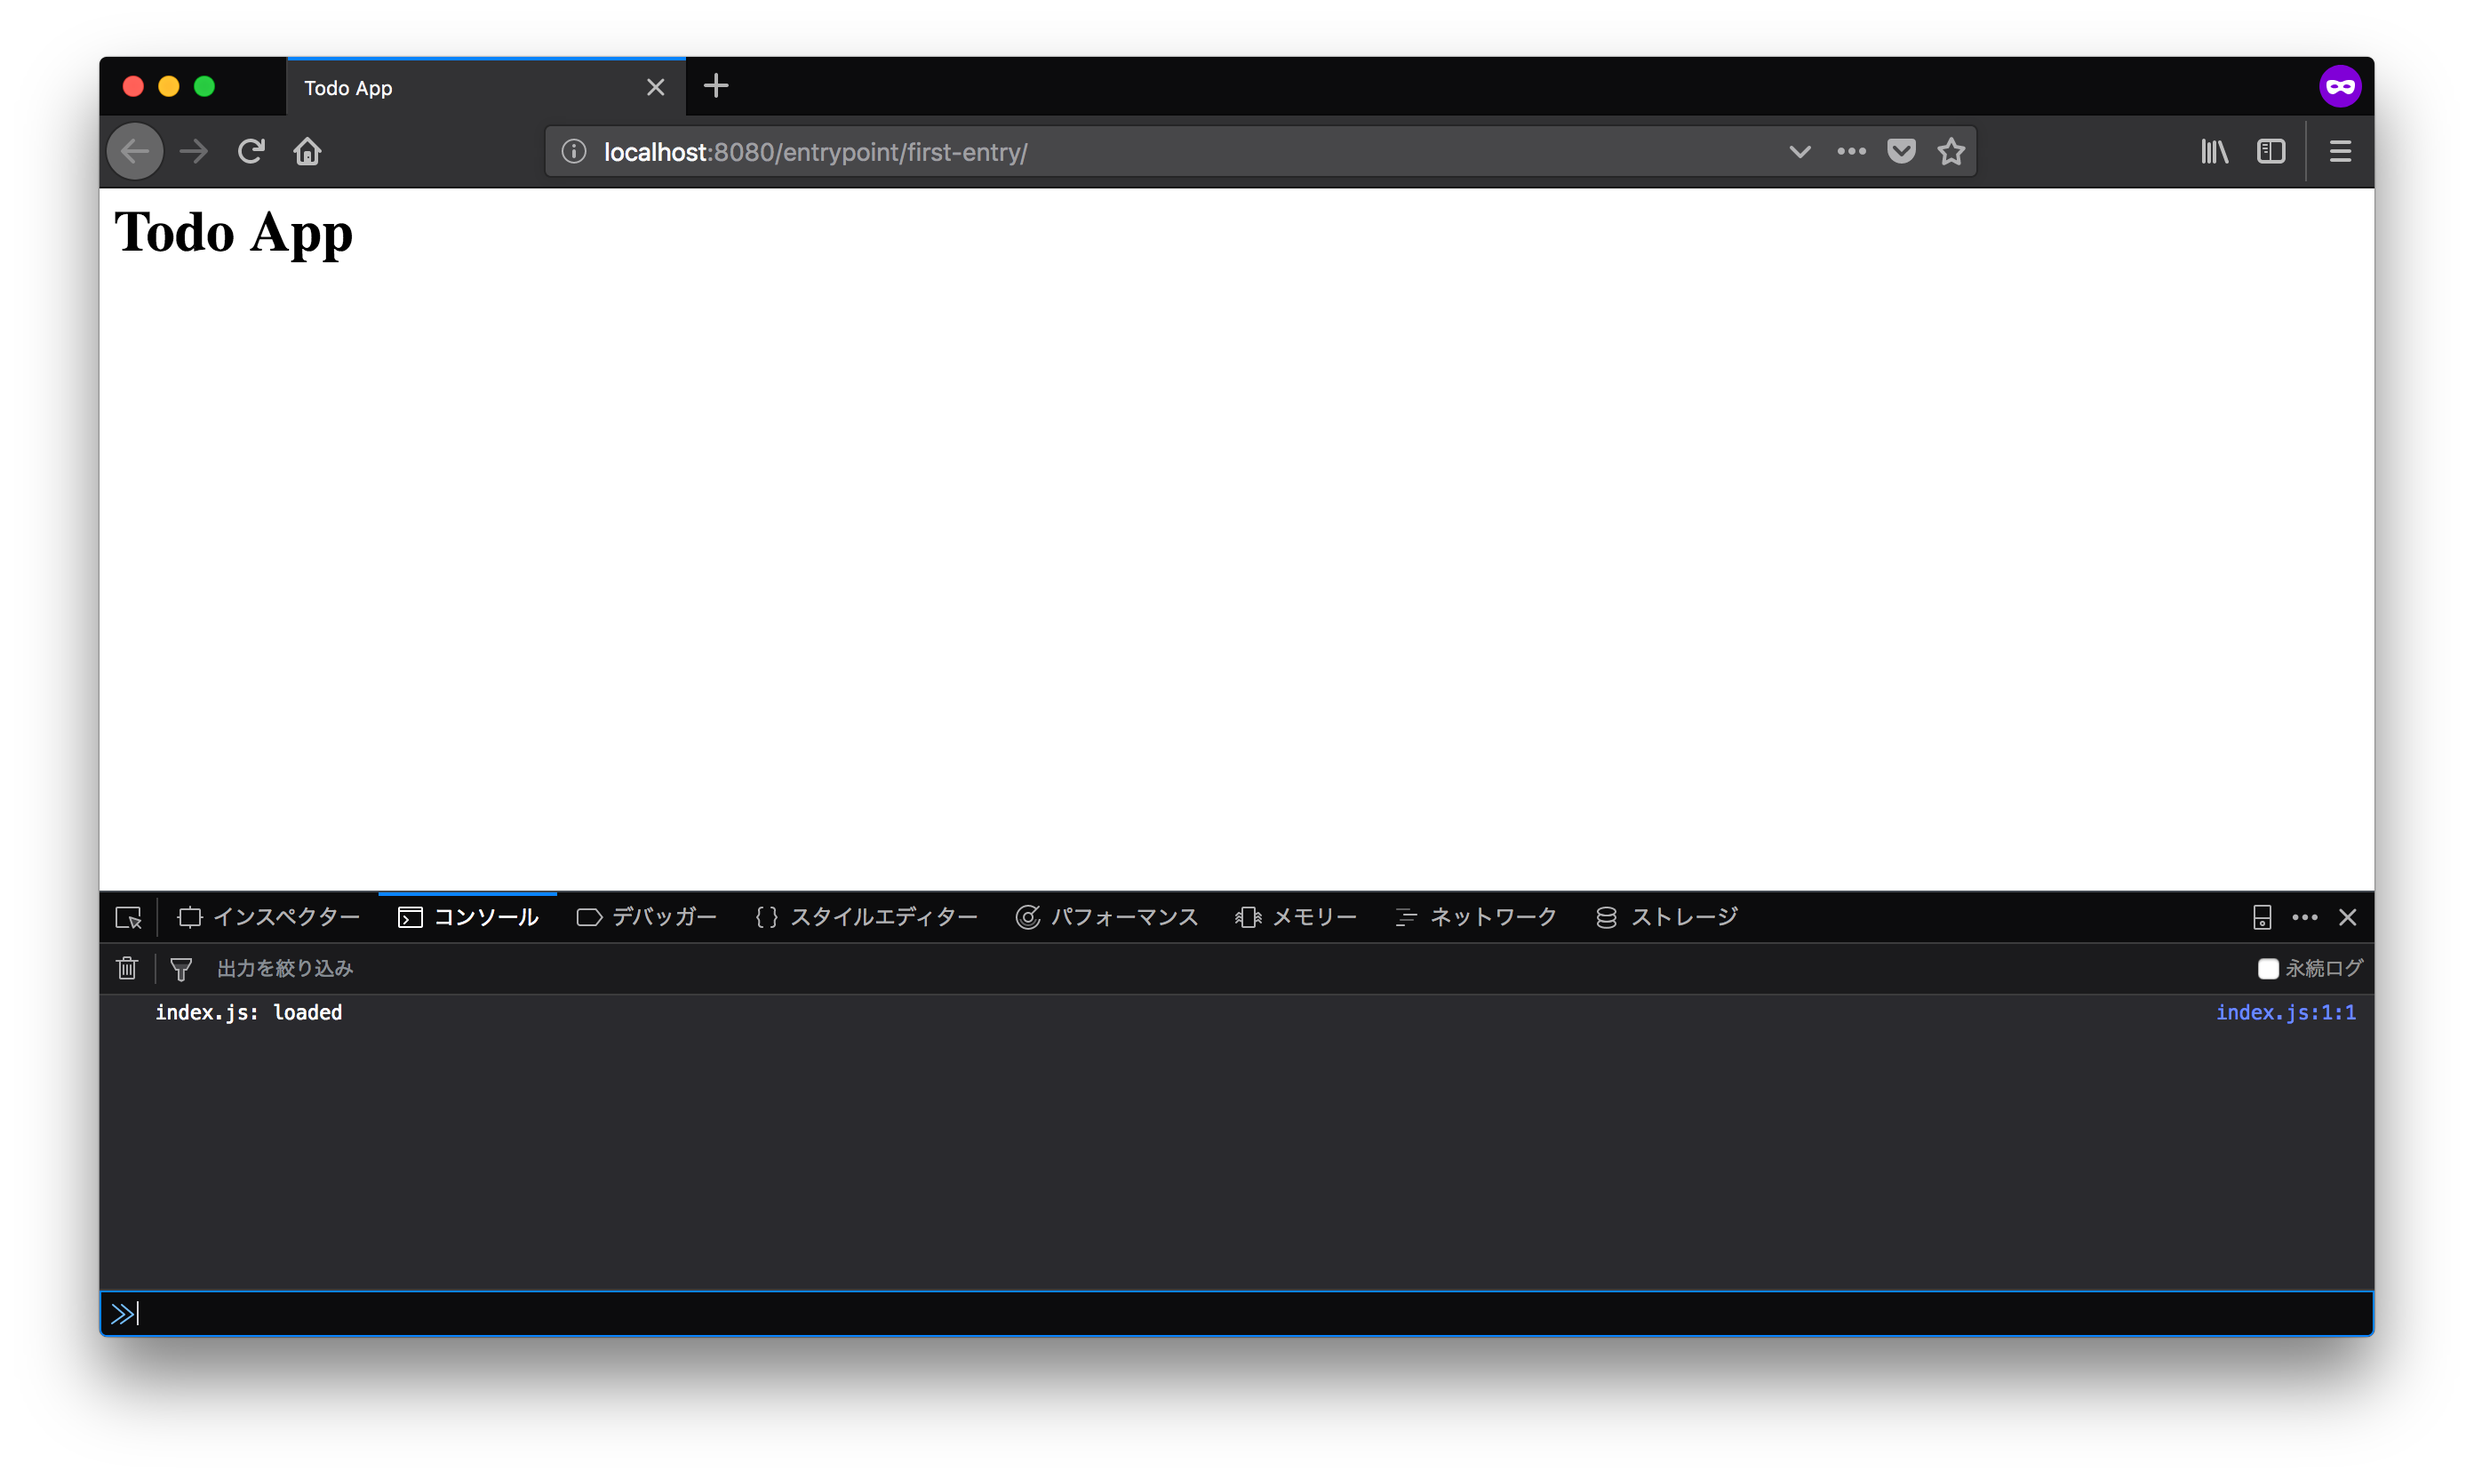
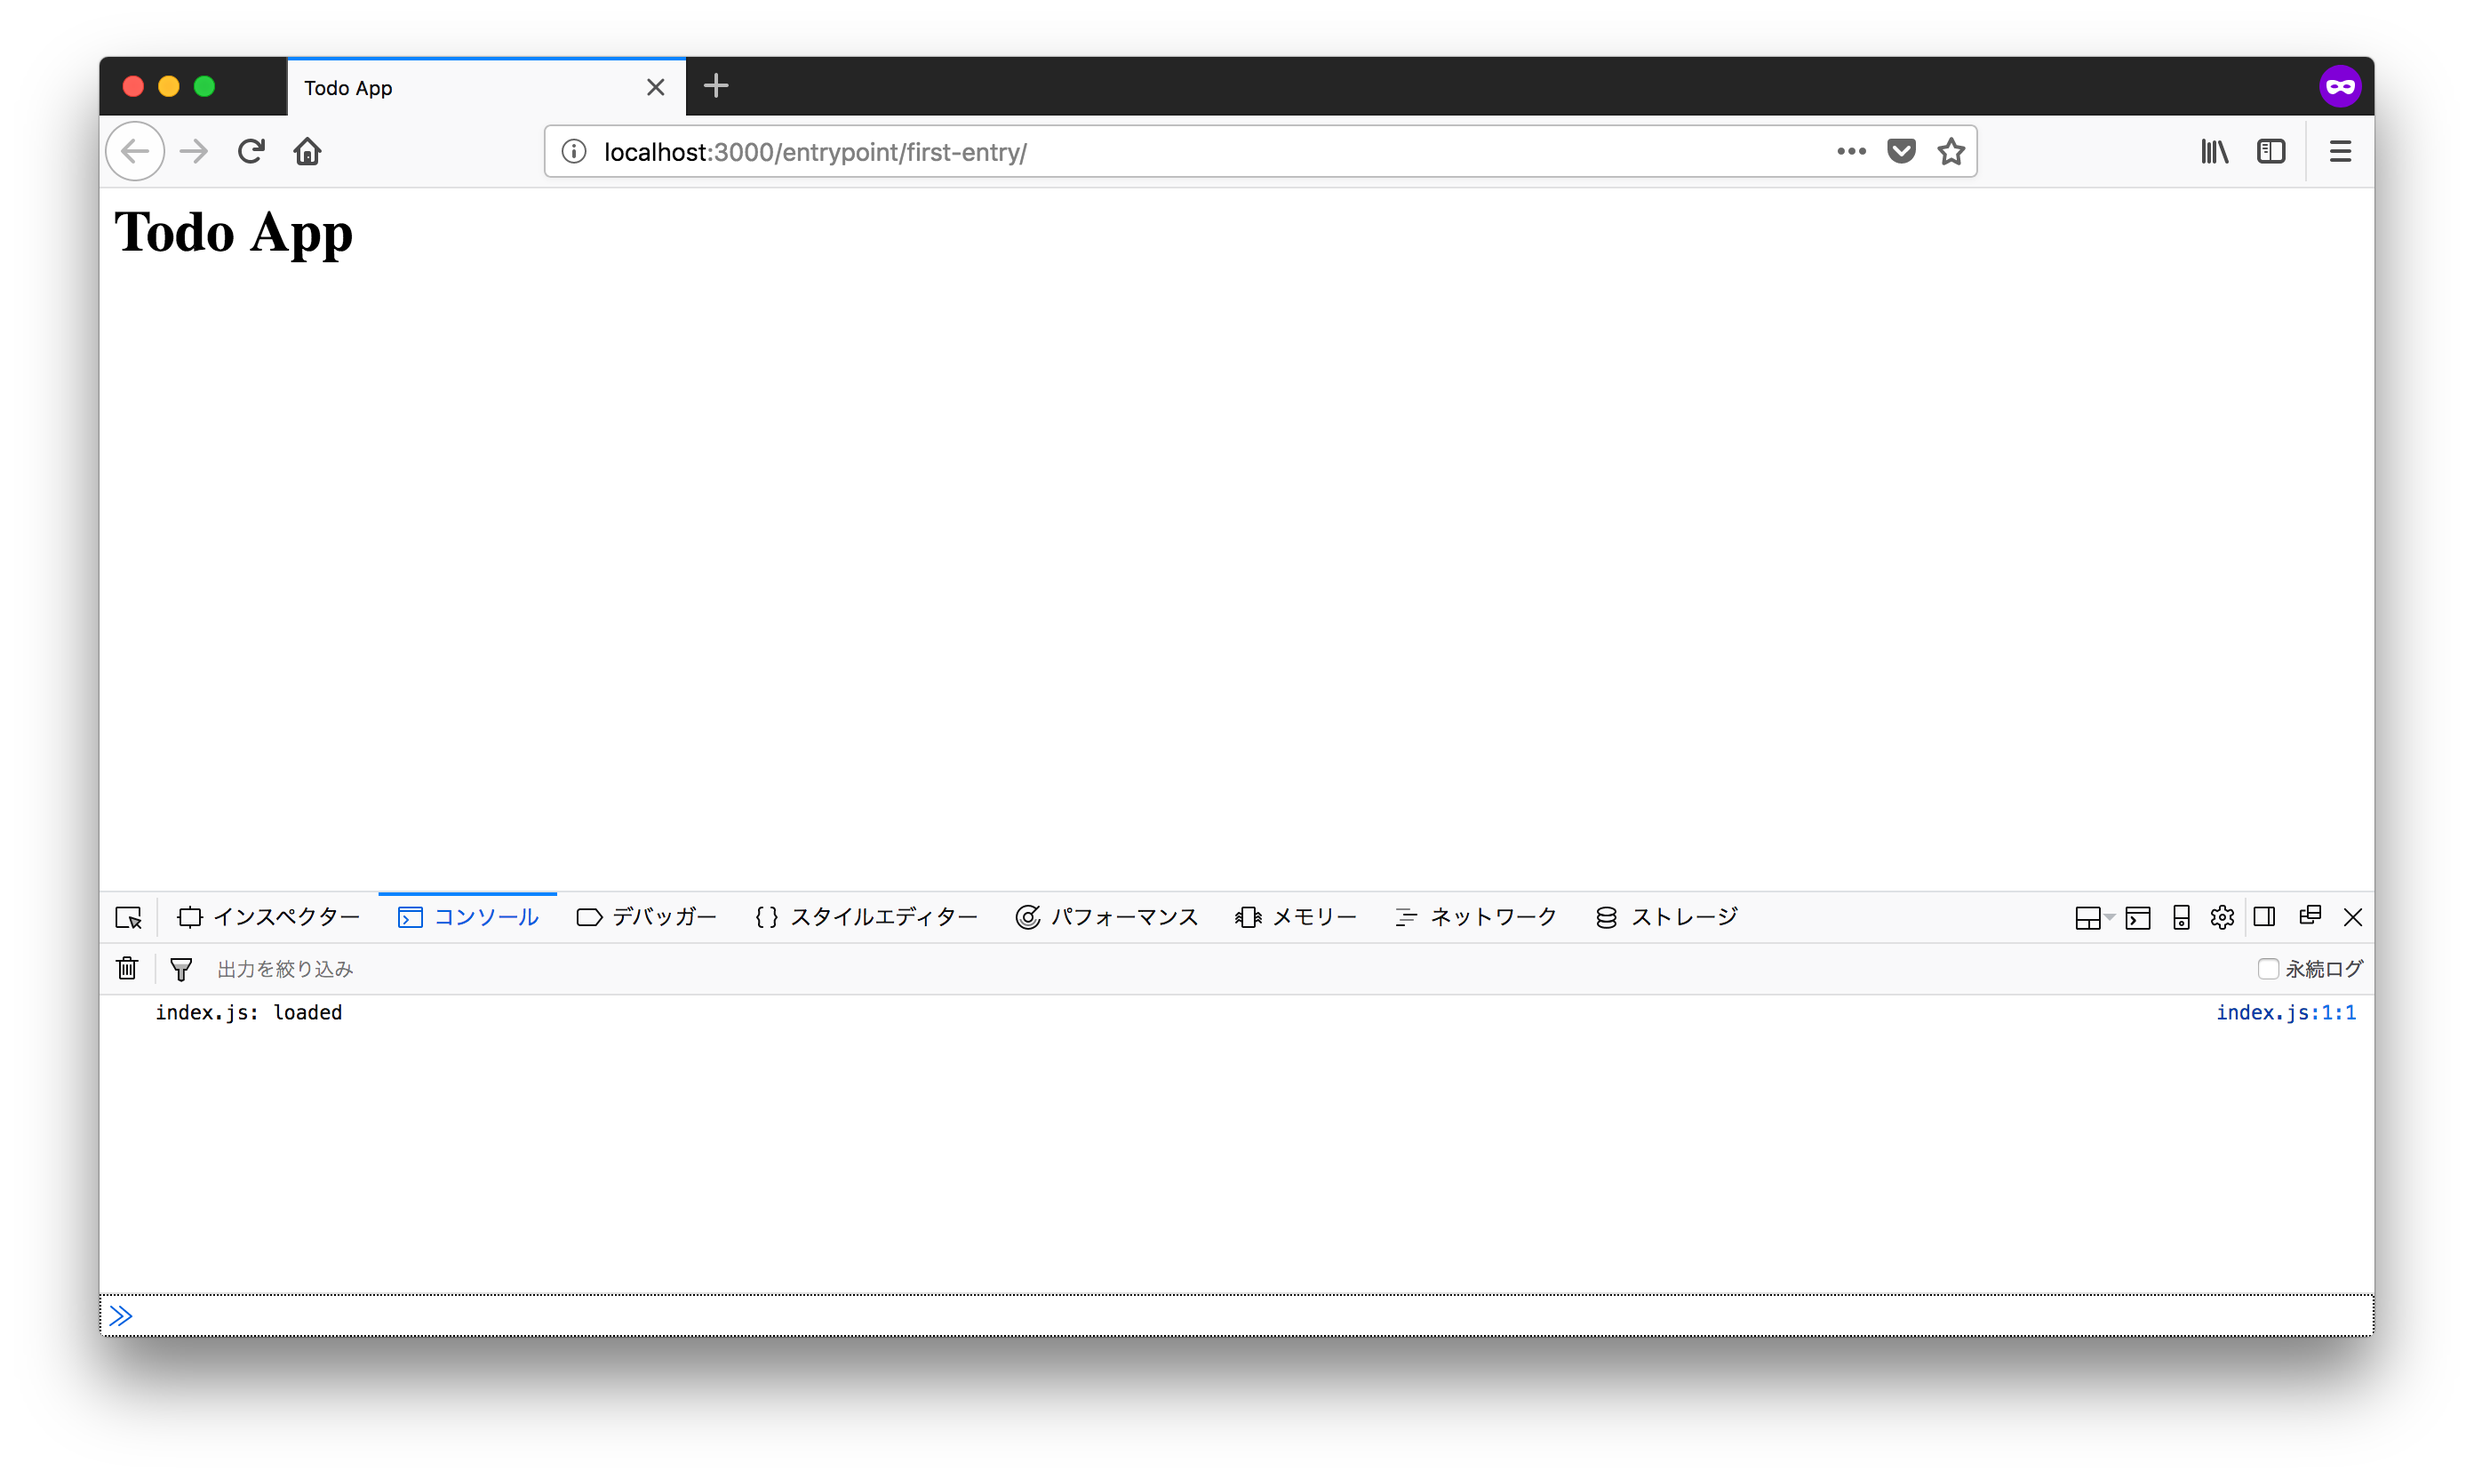
chore(todoapp): JXAを更新 && スクリーンショットを更新

diff --git a/tools/applescript/modules/firefox.ts b/tools/applescript/modules/firefox.ts
@@ -1,39 +1,39 @@
-const runJxa: (fn: (...args: any[]) => any) => (...args: any[]) => Promise<void> = require('osa2');
+import { run } from "@jxa/run";
 
 export function launchFirefox({ url, profileName }: { url: string, profileName: string }) {
-    return runJxa((url, profileName) => {
+    return run((url, profileName) => {
         var app = Application.currentApplication();
         app.includeStandardAdditions = true;
-        app.doShellScript(`open -a /Applications/FirefoxDeveloperEdition.app --args -no-remote -CreateProfile '${profileName}'`);
-        app.doShellScript(`open -a /Applications/FirefoxDeveloperEdition.app --args -private-window '${url}' -no-remote -P '${profileName}'`);
-    })(url, profileName);
+        app.doShellScript(`open -a /Applications/Firefox.app --args -no-remote -CreateProfile '${profileName}'`);
+        app.doShellScript(`open -a /Applications/Firefox.app --args -private-window '${url}' -no-remote -P '${profileName}'`);
+    }, url, profileName);
 }
 
 export function setFirefoxWindowBounds() {
-    return runJxa(() => {
-        const Firefox = Application("FirefoxDeveloperEdition");
+    return run(() => {
+        const Firefox = Application("Firefox");
         Firefox.activate();
         Firefox.windows[0].bounds = { "x": 0, "y": 0, "width": 1280, "height": 720 }
-    })();
+    });
 }
 
 export function quitFirefox() {
-    return runJxa(() => {
-        const Firefox = Application("FirefoxDeveloperEdition");
+    return run(() => {
+        const Firefox = Application("Firefox");
         Firefox.quit();
-    })();
+    });
 }
 
 
 export function screenshotFirefox(outputFilePath: string) {
-    return runJxa((outputFilePath) => {
+    return run((outputFilePath) => {
         const app = Application.currentApplication();
         app.includeStandardAdditions = true;
-        const Firefox = Application("FirefoxDeveloperEdition");
+        const Firefox = Application("Firefox");
         Firefox.activate();
         delay(0.3);
         const window = Firefox.windows[0];
         const windowId = String(window.id());
         app.doShellScript(`/usr/sbin/screencapture -l ${windowId} "${outputFilePath}"`);
-    })(outputFilePath)
+    }, outputFilePath);
 }

diff --git a/tools/applescript/modules/keyboard-util.ts b/tools/applescript/modules/keyboard-util.ts
@@ -1,4 +1,4 @@
-const runJxa: (fn: (...args: any[]) => any) => (...args: any[]) => Promise<void> = require('osa2');
+import { run } from "@jxa/run";
 
 export type ModifierOption = {
     shift?: boolean;
@@ -28,11 +28,11 @@ function createModifier(modifierOption: ModifierOption) {
 
 export function sendKeyStroke(key: string, modifierOption: ModifierOption) {
     const modifiers = createModifier(modifierOption);
-    return runJxa((key, modifiers) => {
+    return run((key, modifiers) => {
         const SystemEvents = Application("System Events");
-        const Firefox = Application("FirefoxDeveloperEdition");
+        const Firefox = Application("Firefox");
         Firefox.activate();
         delay(1.0); // wait for active
         SystemEvents.keystroke(key, { using: modifiers });
-    })(key, modifiers);
+    }, key, modifiers);
 }
